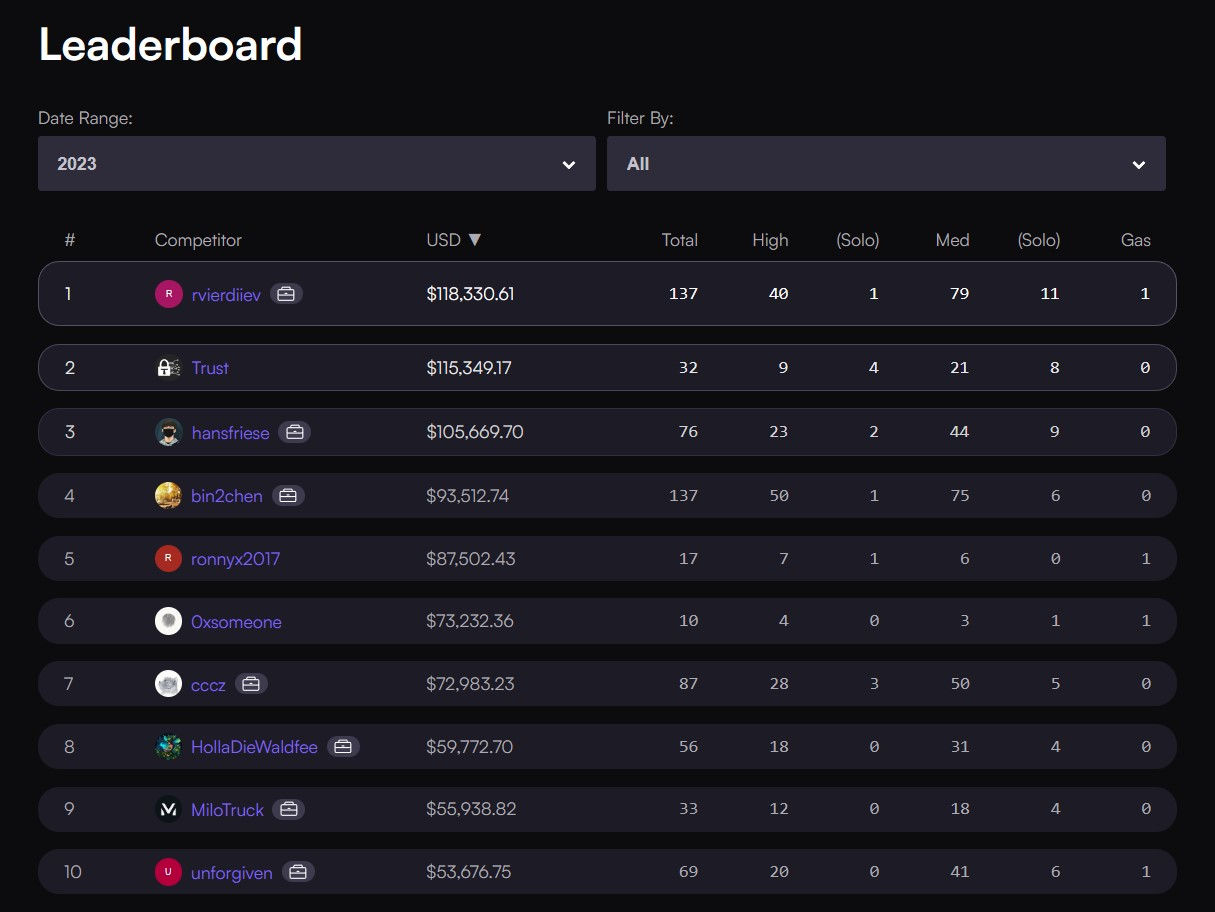
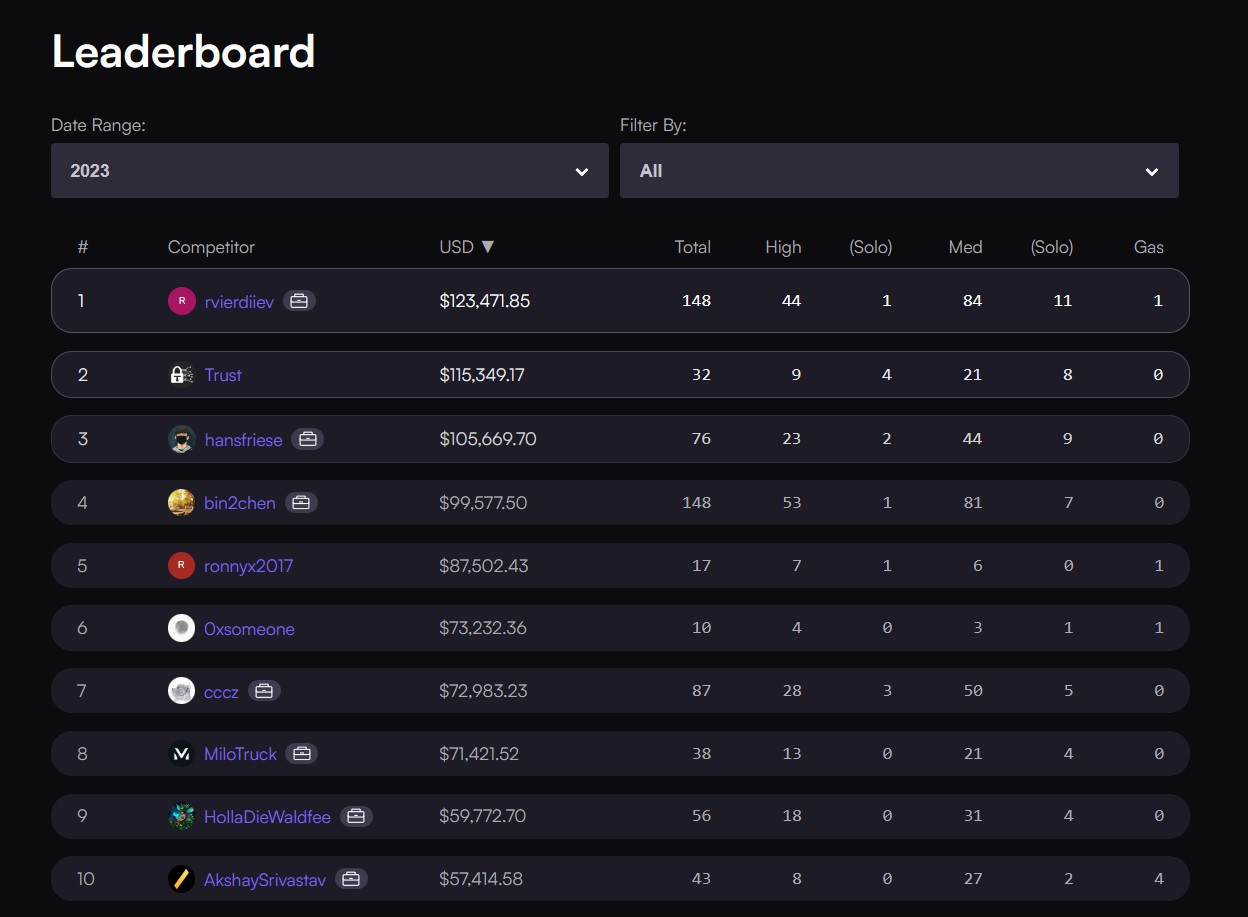
Add C4 Arbitrum contest results

diff --git a/README.md b/README.md
@@ -9,14 +9,15 @@ My reports and results for all audit contests I have participated in can be foun
 ### Stats
 
 - [Code4rena Profile](https://code4rena.com/@MiloTruck)
-- 16 High, 39 Medium severity vulnerabilities found
-- Ranked #9 on [Code4rena's 2023 leaderboard](https://code4rena.com/leaderboard)
+- 17 High, 42 Medium severity vulnerabilities found
+- Ranked #8 on [Code4rena's 2023 leaderboard](https://code4rena.com/leaderboard)
 
 <img src="images/c4_leaderboard.jpg" width="900">
 
 ### Highlights
 
 - [LUKSO Network: Blockchain Ecosystem, Account Abstraction](/code4rena/2023-06-lukso.md) - 1st place
+- [Arbitrum Security Council Elections: Governance](/code4rena/2023-08-arbitrum.md) - 1st place
 - [Chainlink CCIP: Cross-chain Messaging & Token Bridging]() - 8th place 
 - [EigenLayer: Liquid Staking Derivative](/code4rena/2023-04-eigenlayer.md) - 9th place
 

diff --git a/audit-contests.md b/audit-contests.md
@@ -14,7 +14,8 @@
 | [EigenLayer](https://code4rena.com/contests/2023-04-eigenlayer-contest) | 1 H, 1 M | #9 | $1,978.72 | Solidity |  [Report](/code4rena/2023-04-eigenlayer.md) |
 | [Chainlink CCIP](https://code4rena.com/contests/2023-05-chainlink-cross-chain-services-ccip-and-arm-network) | 3 H | #8 | $6,300.97 | Solidity | |
 | [LUKSO](https://code4rena.com/contests/2023-06-lukso) | 6 M | #1 | $44,459.52 | Solidity | [Report](/code4rena/2023-06-lukso.md) |
-| Overall | 12 H, 18 M | | $55,938.82 | | |
+| [Arbitrum Security Council Elections](https://code4rena.com/contests/2023-08-arbitrum-security-council-election-system) | 1 H, 3 M | #1 | $15,482.70 | Solidity | [Report](/code4rena/2023-08-arbitrum.md) |
+| Overall | 13 H, 21 M | | $71,421.52 | | |
 
 ## 2022
 

diff --git a/code4rena/2023-08-arbitrum.md b/code4rena/2023-08-arbitrum.md
@@ -1,0 +1,6 @@
+# Arbitrum Security Council Election System
+The code under review can be found in [2023-08-arbitrum](https://github.com/code-423n4/2023-08-arbitrum).
+
+## Findings Summary
+
+To be released.
